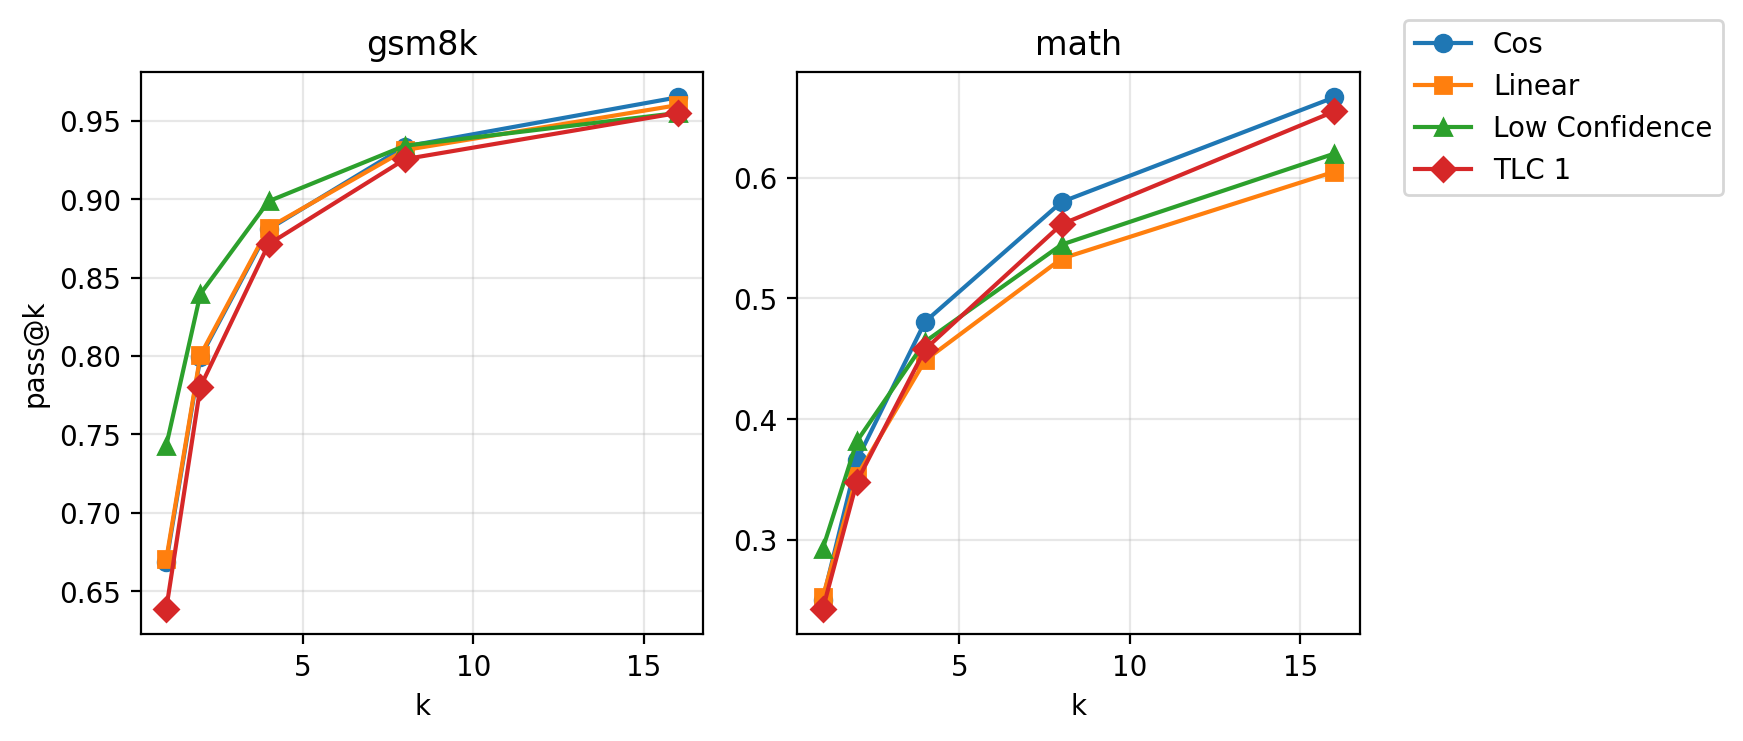
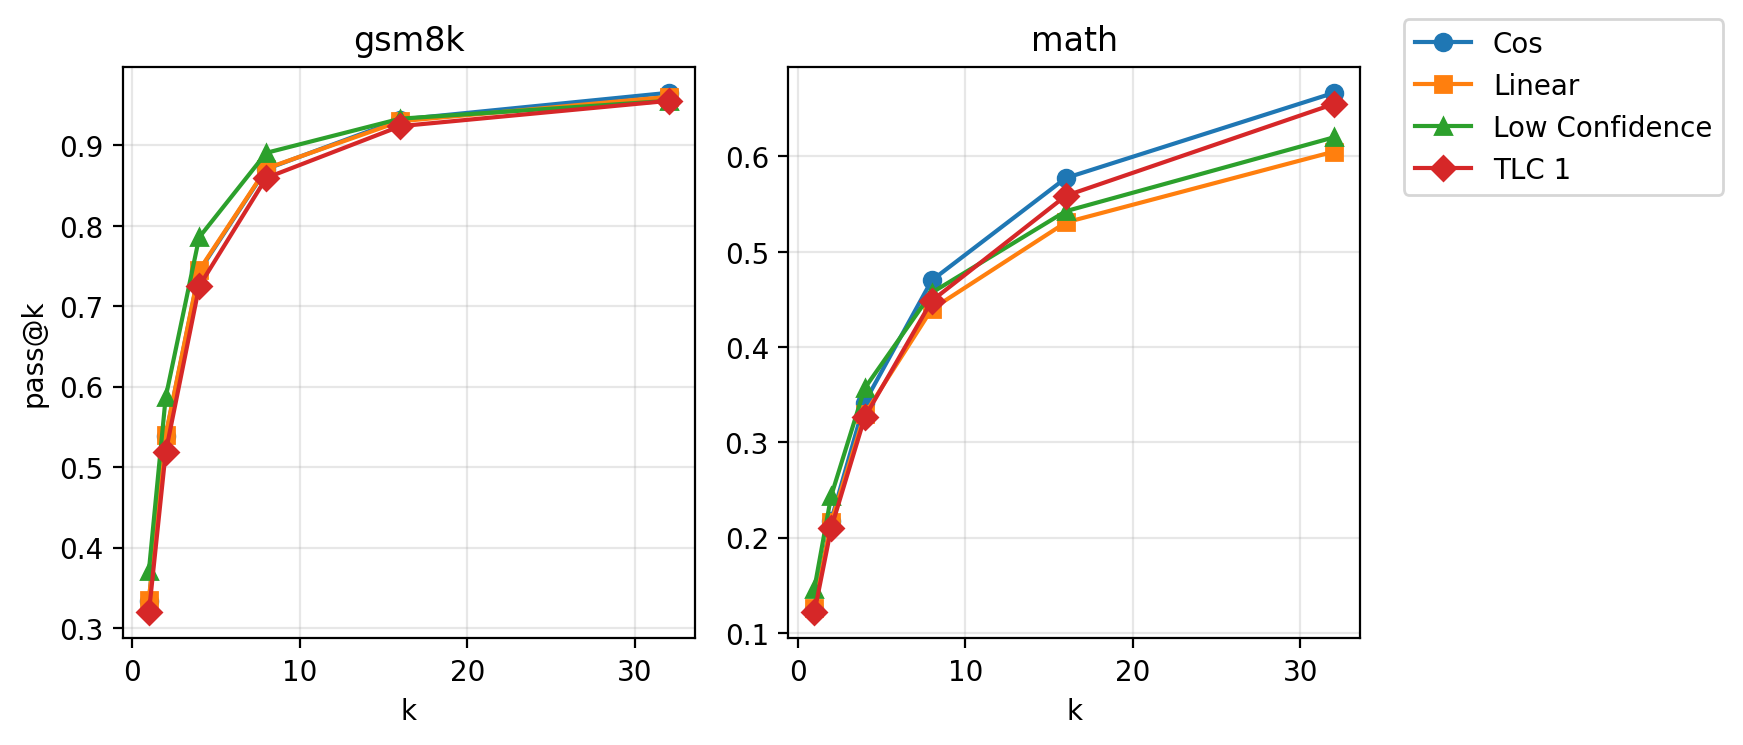
added entropy@k

diff --git a/analysis.py b/analysis.py
@@ -6,7 +6,7 @@ import pandas
 import numpy as np
 from itertools import cycle
 import matplotlib.pyplot as plt
-from calcualtions import calculate_entropy, calculate_pass_k
+from calcualtions import  calculate_pass_k, calculate_entropy_k
 
 
 K = [1, 2, 4, 8, 16, 32]
@@ -20,27 +20,54 @@ def stitch_data():
         print(path)
         data = json.load(open(path))
         for method, d in data["method"].items():
-            for index, c in zip(d['problem_indices'], d['c_counts']):
+            for index, c, answers, in zip(d['problem_indices'], d['c_counts'], d['answers']):
                 records.append({
                     "dataset": dataset,
                     "seed": seed,
                     "problem": index,
                     "method": method,
+                    "answers": answers,
                     "c": c
                 })
 
     return pandas.DataFrame(records)
 
 
+markers_ = ["o", "s", "^", "D", "v", "P", "*"]
+shown_methods = ["Cos", "TLC 1", "Linear", "Low Confidence"]
 
-def graph_data(per_seed):
+def graph_entropy_k_data(per_seed):
     avg = per_seed.groupby(['dataset', 'method']).mean()
     datasets = avg.index.get_level_values("dataset").unique()
 
     fig, ax = plt.subplots(1, len(datasets), figsize=(7, 4), layout="constrained")
-    shown_methods = ["Cos", "TLC 1", "Linear", "Low Confidence"]
     for i, dataset in enumerate(datasets):
-        markers = cycle(["o", "s", "^", "D", "v", "P", "*"])
+        markers = cycle(markers_)
+        for method in avg.loc[dataset].index:
+            if method in shown_methods:
+                y = [avg.loc[(dataset, method), f"entropy@{k}"] for k in K]
+                ax[i].plot(K, y, marker=next(markers), label=method)
+            ax[i].set_xlabel("k")
+            ax[i].set_title(dataset)
+            ax[i].set_box_aspect(1)
+            ax[i].grid(True, alpha=0.3)
+            ax[i].set_axisbelow(True)
+        
+    handles, labels = ax[0].get_legend_handles_labels()
+    fig.legend(handles, labels, loc="upper left", bbox_to_anchor=(1.0, 0.95))
+
+    ax[0].set_ylabel("entropy@k")
+    fig.tight_layout()
+    fig.savefig("entropy_at_k.png", dpi=200, bbox_inches="tight")
+    plt.close(fig)
+
+def graph_pass_k_data(per_seed):
+    avg = per_seed.groupby(['dataset', 'method']).mean()
+    datasets = avg.index.get_level_values("dataset").unique()
+
+    fig, ax = plt.subplots(1, len(datasets), figsize=(7, 4), layout="constrained")
+    for i, dataset in enumerate(datasets):
+        markers = cycle(markers_)
         for method in avg.loc[dataset].index:
             if method in shown_methods:
                 y = [avg.loc[(dataset, method), f"pass@{k}"] for k in K]
@@ -59,20 +86,25 @@ def graph_data(per_seed):
     fig.savefig("pass_at_k.png", dpi=200, bbox_inches="tight")
     plt.close(fig)
 
+
+
     
 
 if __name__ == "__main__":
 
     df = stitch_data()
-    
+    print(len(df), np.asarray(df['answers'].iloc[0]).shape)
     for k in K:
         df[f"pass@{k}"] = df['c'].apply(lambda c : calculate_pass_k(N, k, c))
+        df[f"entropy@{k}"] = df['answers'].apply(lambda a : calculate_entropy_k(a, k))
 
-    per_seed = df.groupby(["dataset", "seed", "method"])[[f'pass@{k}' for k in K]].mean()
-
+    cols = [f'pass@{k}' for k in K] + [f'entropy@{k}' for k in K]
+    per_seed = df.groupby(["dataset", "seed", "method"])[cols].mean()   
+    
     summary = per_seed.groupby(["dataset", "method"]).agg(["mean", "std"])
     print(summary.round(3))
 
-    graph_data(per_seed)
+    graph_pass_k_data(per_seed)
+    graph_entropy_k_data(per_seed)
 
 

diff --git a/calcualtions.py b/calcualtions.py
@@ -1,10 +1,20 @@
 import numpy as np
 from collections import Counter
 
-def calculate_entropy(answers):
-    counts = np.array(list(Counter(answers).values), dtype = float)
-    p = counts / counts.sum()
-    return float(-(p * np.log(p)).sum())
+def calculate_entropy_k(answers, k, n_boot=1000, rng=np.random.default_rng(0)):
+    a = np.asarray(answers)
+    n = len(a)
+    if k > n:
+        return np.nan
+    _, codes = np.unique(a, return_inverse=True)  
+    idx = np.argsort(rng.random((n_boot, n)), axis=1)[:, :k] 
+    sub = codes[idx]
+    counts = np.apply_along_axis(np.bincount, 1, sub, minlength=codes.max() + 1)
+    p = counts / k
+    with np.errstate(divide='ignore', invalid='ignore'):
+        h = -np.where(p > 0, p * np.log(p), 0).sum(axis=1)
+    return float(h.mean())
+
 
 def calculate_pass_k(n, k, c):
     # n = how many samples you generate
